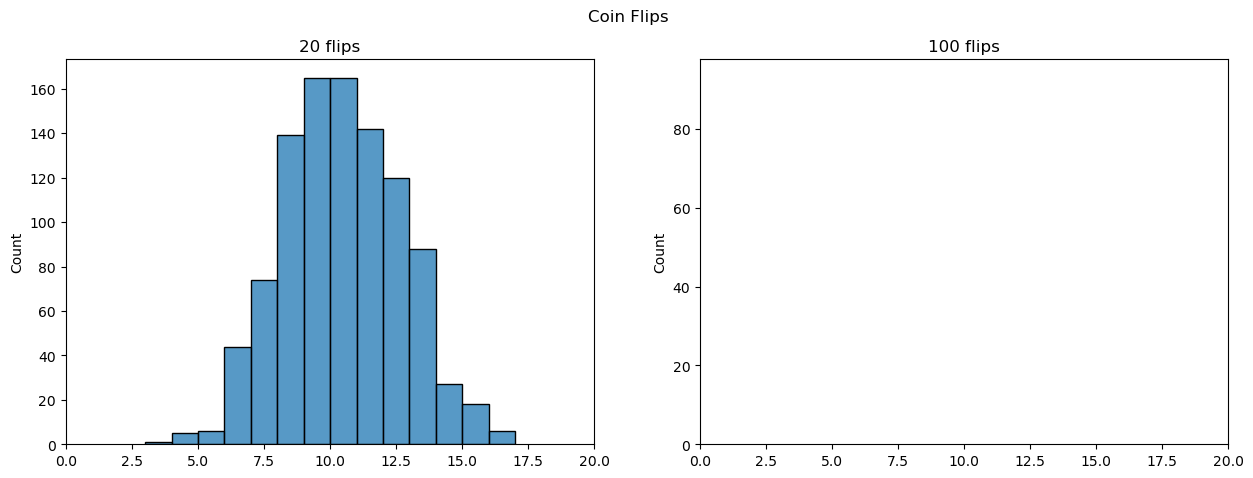
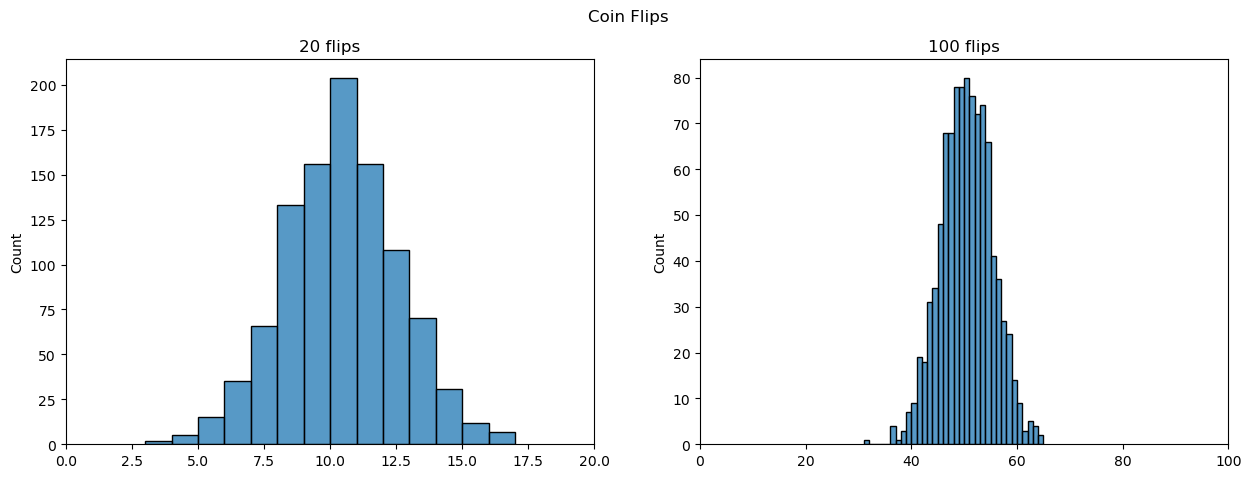
Update documentation

diff --git a/04.02-probability.html b/04.02-probability.html
@@ -905,7 +905,7 @@ P(X | \mu, \sigma) = \frac{1}{\sqrt{2\pi}\sigma} \exp \left( -\frac{(X - \mu)^2}
 <span class="c1"># 100 flips</span>
 <span class="n">sns</span><span class="o">.</span><span class="n">histplot</span><span class="p">(</span><span class="n">x_100</span><span class="p">,</span> <span class="n">bins</span><span class="o">=</span><span class="mi">20</span><span class="p">,</span><span class="n">binwidth</span><span class="o">=</span><span class="mi">1</span><span class="p">,</span> <span class="n">ax</span><span class="o">=</span><span class="n">axes</span><span class="p">[</span><span class="mi">1</span><span class="p">])</span>
 <span class="n">axes</span><span class="p">[</span><span class="mi">1</span><span class="p">]</span><span class="o">.</span><span class="n">set_title</span><span class="p">(</span><span class="s1">&#39;100 flips&#39;</span><span class="p">)</span>
-<span class="n">axes</span><span class="p">[</span><span class="mi">1</span><span class="p">]</span><span class="o">.</span><span class="n">set</span><span class="p">(</span><span class="n">xlim</span><span class="o">=</span><span class="p">(</span><span class="mi">0</span><span class="p">,</span><span class="mi">20</span><span class="p">))</span>
+<span class="n">axes</span><span class="p">[</span><span class="mi">1</span><span class="p">]</span><span class="o">.</span><span class="n">set</span><span class="p">(</span><span class="n">xlim</span><span class="o">=</span><span class="p">(</span><span class="mi">0</span><span class="p">,</span><span class="mi">100</span><span class="p">))</span>
 
 
 <span class="n">glue</span><span class="p">(</span><span class="s2">&quot;fig-binomial&quot;</span><span class="p">,</span> <span class="n">fig</span><span class="p">,</span> <span class="n">display</span><span class="o">=</span><span class="kc">False</span><span class="p">)</span>
